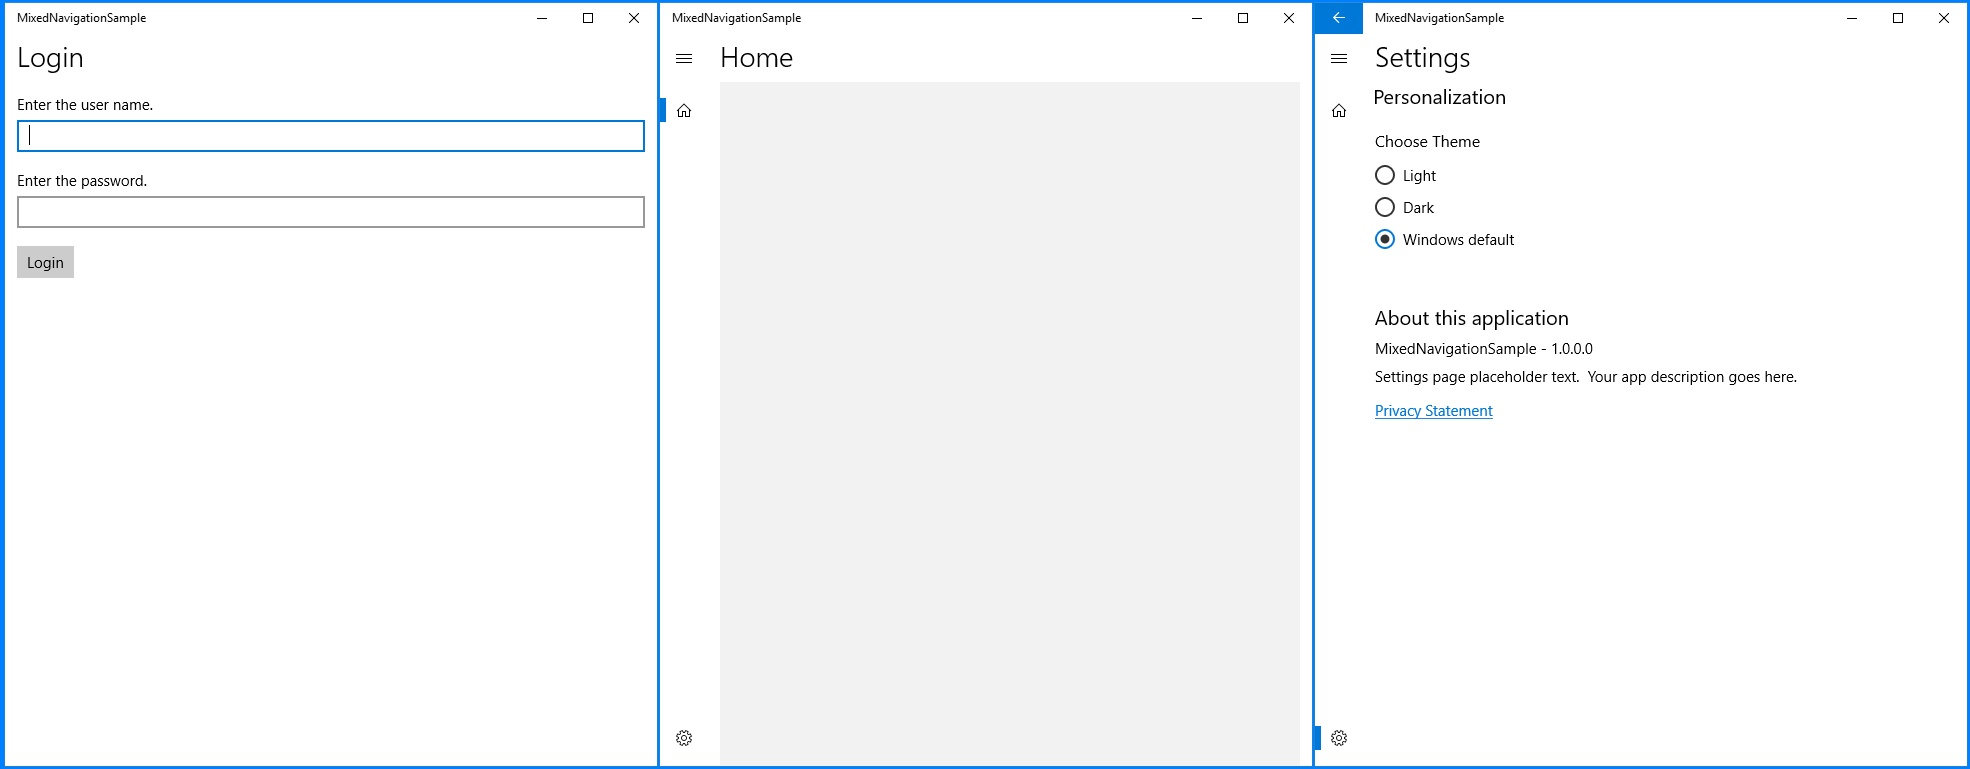
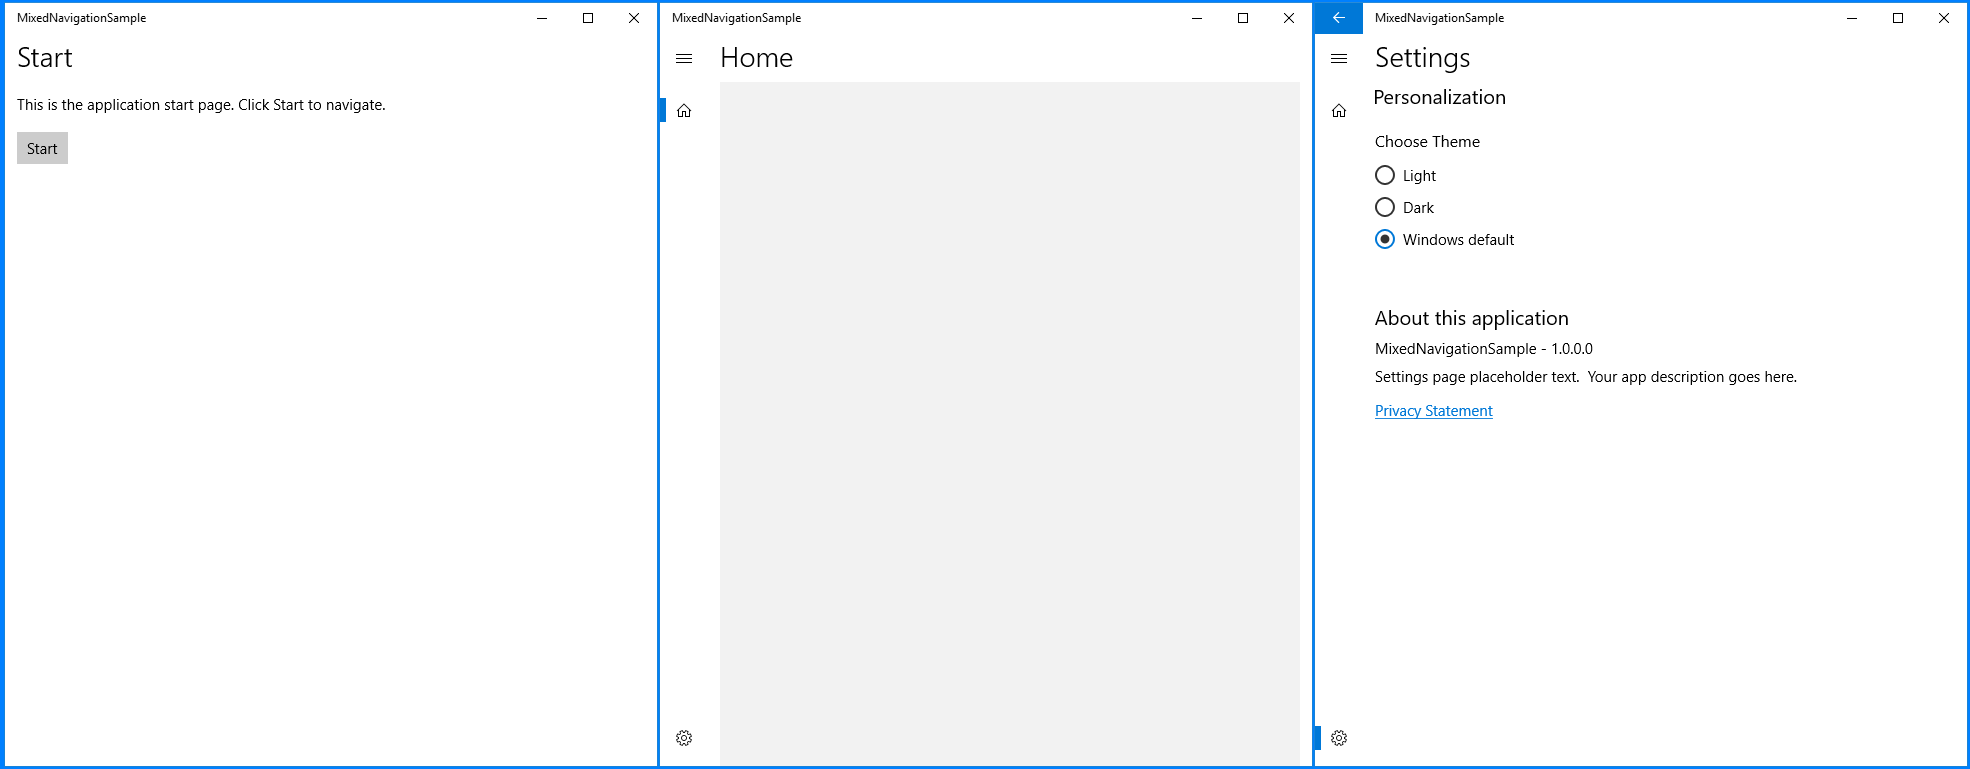
Update MixedNavigationSample and documentation

Changed region(s): [[0.0, 0.1248, 0.1858, 0.2497], [0.0, 0.3121, 0.0619, 0.3745], [0.0, 0.0624, 0.0619, 0.0936]]

diff --git a/samples/navigation/MixedNavigationSample/MixedNavigationSample/Views/StartPage.xaml b/samples/navigation/MixedNavigationSample/MixedNavigationSample/Views/StartPage.xaml
@@ -1,5 +1,5 @@
 <Page
-    x:Class="MixedNavigationSample.Views.LoginPage"
+    x:Class="MixedNavigationSample.Views.StartPage"
     xmlns="http://schemas.microsoft.com/winfx/2006/xaml/presentation"
     xmlns:x="http://schemas.microsoft.com/winfx/2006/xaml"
     xmlns:d="http://schemas.microsoft.com/expression/blend/2008"
@@ -16,16 +16,13 @@
 
         <TextBlock
             x:Name="TitlePage"
-            x:Uid="Login_Title"
+            x:Uid="Start_Title"
             Style="{StaticResource PageTitleStyle}" />
 
         <Grid Grid.Row="1" >
             <StackPanel Margin="0,12">
-                <TextBlock x:Uid="Login_Username"/>
-                <TextBox Margin="0,6,0,0"/>
-                <TextBlock x:Uid="Login_Password" Margin="0,18,0,0"/>
-                <TextBox Margin="0,6,0,0"/>
-                <Button x:Uid="Login_LoginButton" Margin="0,18,0,0" Command="{x:Bind ViewModel.LoginCommand}"/>
+                <TextBlock x:Uid="Start_Description"/>
+                <Button x:Uid="Start_StartButton" Margin="0,18,0,0" Command="{x:Bind ViewModel.StartCommand}"/>
             </StackPanel>
         </Grid>
         <!--  Adaptive triggers  -->

diff --git a/samples/navigation/MixedNavigationSample/MixedNavigationSample/ViewModels/StartViewModel.cs b/samples/navigation/MixedNavigationSample/MixedNavigationSample/ViewModels/StartViewModel.cs
@@ -7,16 +7,16 @@ using Windows.UI.Xaml;
 
 namespace MixedNavigationSample.ViewModels
 {
-    public class LoginViewModel : Observable
+    public class StartViewModel : Observable
     {
-        public ICommand LoginCommand { get; set; }
+        public ICommand StartCommand { get; set; }
 
-        public LoginViewModel()
+        public StartViewModel()
         {
-            LoginCommand = new RelayCommand(OnLogin);    
+            StartCommand = new RelayCommand(OnStart);    
         }
 
-        private void OnLogin()
+        private void OnStart()
         {
             NavigationService.Navigate<Views.ShellPage>();
             NavigationService.Navigate<Views.HomePage>();

diff --git a/samples/navigation/MixedNavigationSample/MixedNavigationSample/Views/StartPage.xaml.cs b/samples/navigation/MixedNavigationSample/MixedNavigationSample/Views/StartPage.xaml.cs
@@ -6,11 +6,11 @@ using Windows.UI.Xaml.Controls;
 
 namespace MixedNavigationSample.Views
 {
-    public sealed partial class LoginPage : Page
+    public sealed partial class StartPage : Page
     {
-        public LoginViewModel ViewModel { get; } = new LoginViewModel();
+        public StartViewModel ViewModel { get; } = new StartViewModel();
 
-        public LoginPage()
+        public StartPage()
         {
             InitializeComponent();
         }

diff --git a/samples/navigation/MixedNavigationSample/MixedNavigationSample/App.xaml.cs b/samples/navigation/MixedNavigationSample/MixedNavigationSample/App.xaml.cs
@@ -56,7 +56,7 @@ namespace MixedNavigationSample
 
         private ActivationService CreateActivationService()
         {
-            return new ActivationService(this, typeof(Views.LoginPage));
+            return new ActivationService(this, typeof(Views.StartPage));
             //return new ActivationService(this, typeof(Views.HomePage), new Views.ShellPage());
         }
     }

diff --git a/docs/navigation.md b/docs/navigation.md
@@ -39,24 +39,24 @@ protected override async Task HandleInternalAsync(LaunchActivatedEventArgs args)
 ```
 
 ## Mixed navigation sample
-In [this sample](../samples/navigation/MixedNavigationSample) we are going to create an app that includes a single login page before navigate to splitview shell page.
+In [this sample](../samples/navigation/MixedNavigationSample) we are going to create an app that includes a single start page before navigate to splitview shell page.
 
-- Step 1. Navigate to Login Page on App.xaml.cs
+- Step 1. Navigate to Start Page on App.xaml.cs
 ```csharp
-return new ActivationService(this, typeof(Views.LoginPage));
+return new ActivationService(this, typeof(Views.StartPage));
 ```
 - Step 2. Navigate to a ShellPage (Shell page will replace NavigationService Frame to a custom Frame) and then navigate to HomePage
 ```csharp
-public class LoginViewModel : Observable
+public class StartViewModel : Observable
 {
-  public ICommand LoginCommand { get; set; }
+  public ICommand StartCommand { get; set; }
 
-  public LoginViewModel()
+  public StartViewModel()
   {
-    LoginCommand = new RelayCommand(OnLogin);    
+    StartCommand = new RelayCommand(OnStart);    
   }
 
-  private void OnLogin()
+  private void OnStart()
   {
     NavigationService.Navigate<Views.ShellPage>();
     NavigationService.Navigate<Views.HomePage>();
